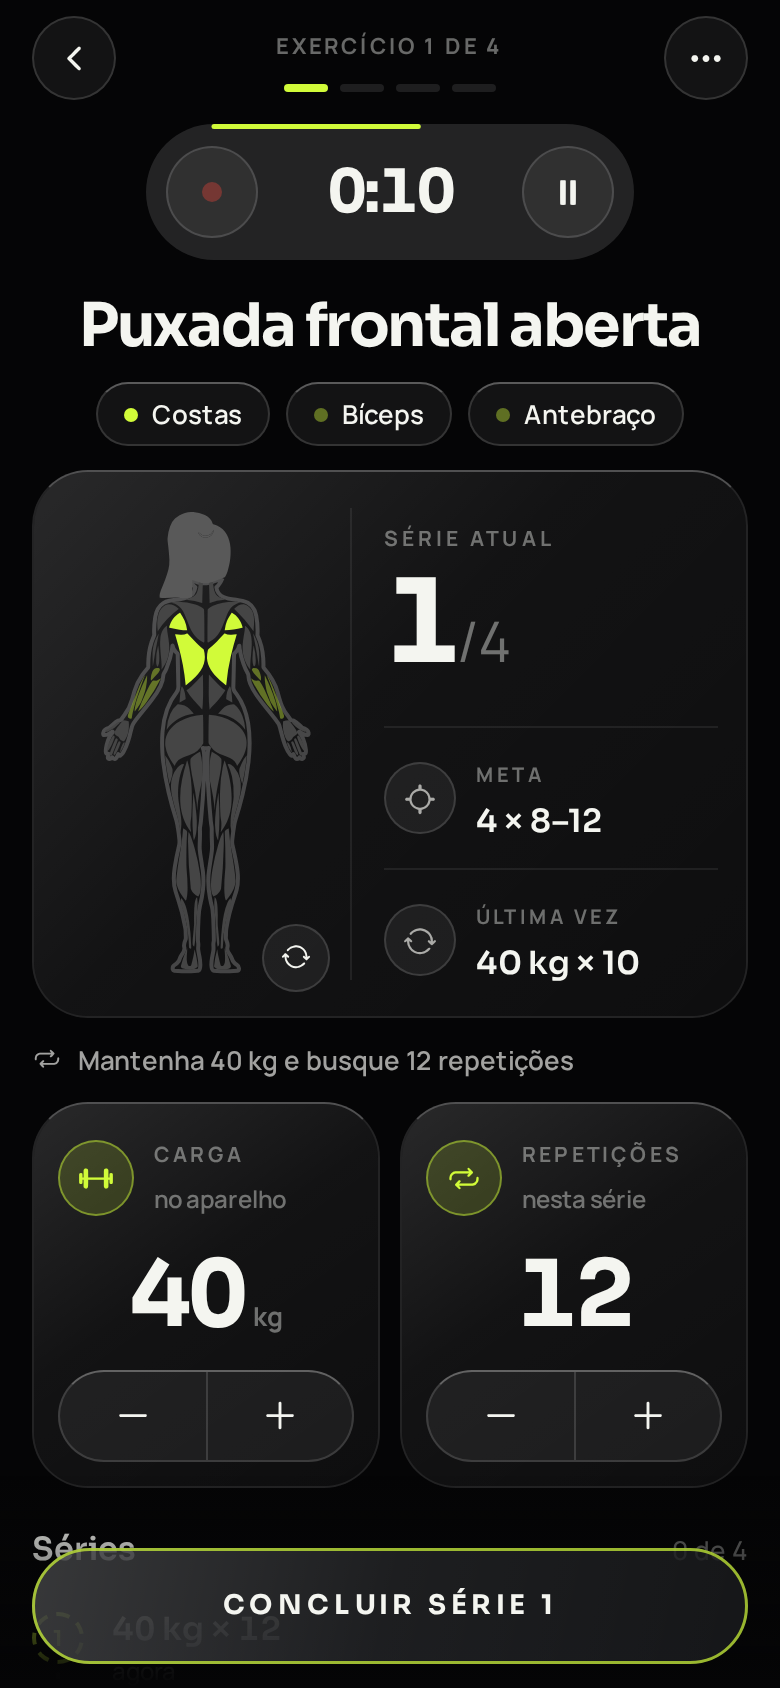
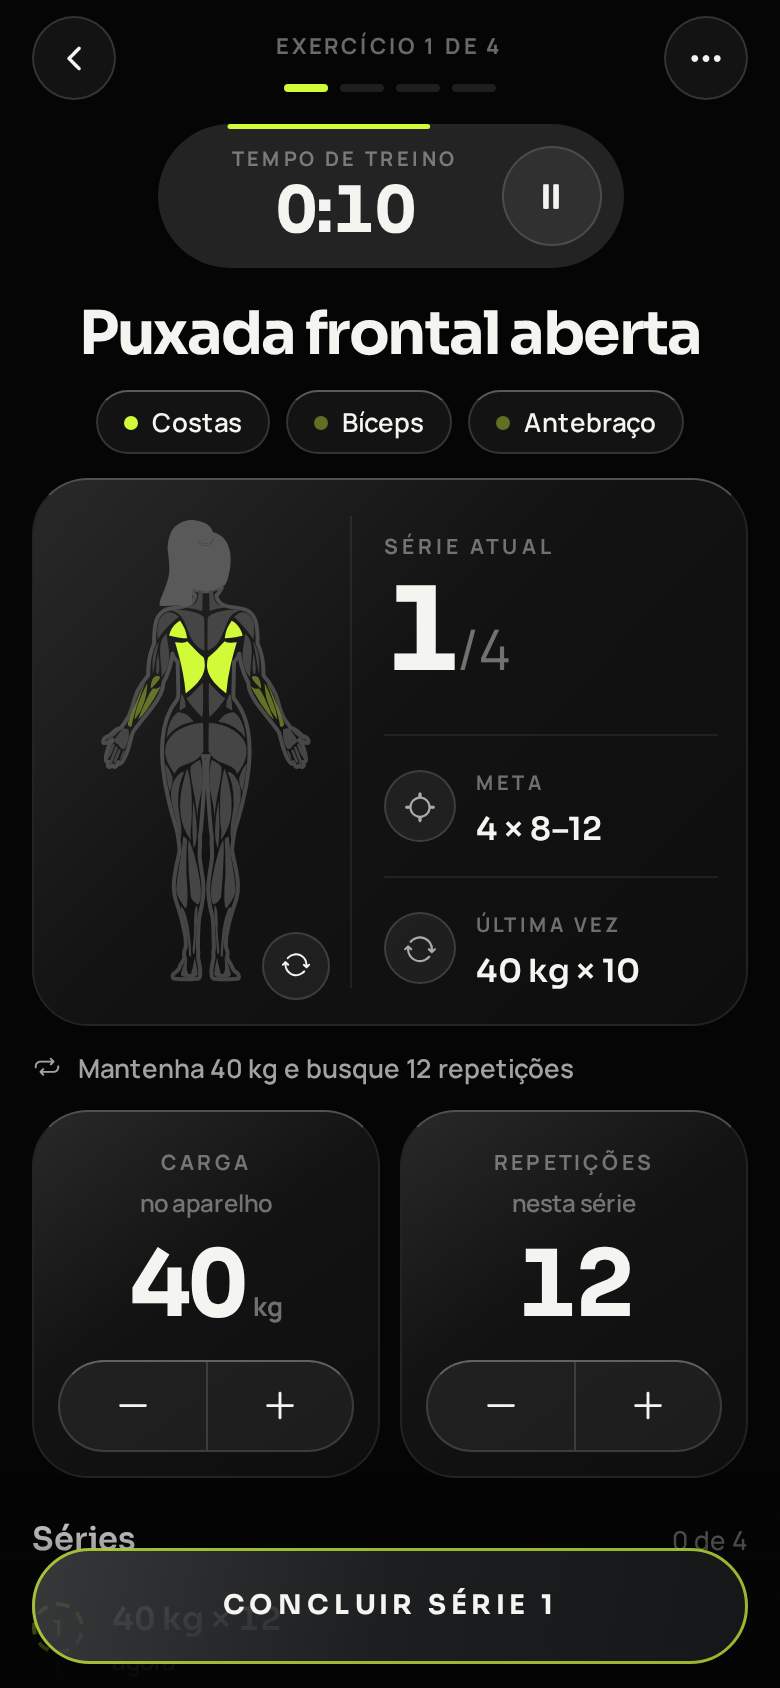
Treino ao vivo: relógio sem o ponto, com o estado em cima do tempo e sem cortar o número; carga e repetições sem ícone
O tempo herdava a altura de linha do texto padrão (22) e o iPhone cortava a metade de cima do número.

Claude-Session: https://claude.ai/code/session_012t93SzLcEenD5Rt5kwwiQ7

diff --git a/src/app/treino-sessao.tsx b/src/app/treino-sessao.tsx
@@ -2,7 +2,7 @@ import Ionicons from '@expo/vector-icons/Ionicons';
 import { Redirect, router, useLocalSearchParams } from 'expo-router';
 import { useEffect, useState } from 'react';
 import { Alert, Platform, Pressable, ScrollView, StyleSheet, View } from 'react-native';
-import Animated, { Easing, Keyframe, useReducedMotion, ZoomIn } from 'react-native-reanimated';
+import Animated, { Easing, Keyframe, ZoomIn } from 'react-native-reanimated';
 import { useSafeAreaInsets } from 'react-native-safe-area-context';
 
 import { LinearGradient } from 'expo-linear-gradient';
@@ -10,7 +10,6 @@ import { LinearGradient } from 'expo-linear-gradient';
 import { BackdropGlow } from '@/components/ui/BackdropGlow';
 import { confirmDestructive, Glass, IconButton, NeonButton, Text, toast } from '@/components/ui';
 import { LinhaAoVivo } from '@/components/workout/LinhaAoVivo';
-import { PISCA } from '@/components/workout/PilulaAoVivo';
 import { MapaMuscular } from '@/components/workout/MapaMuscular';
 import { exercicioPorId, MUSCULO_LABELS } from '@/lib/exercicios';
 import { formatDecimal, formatDuration, formatInt } from '@/lib/format';
@@ -188,7 +187,7 @@ export default function TreinoSessaoScreen() {
         </View>
 
         {/* Tempo do treino numa pílula com a linha correndo em volta (verde no treino, branca no descanso), como o card da aba */}
-        <PilulaTempo sessao={session} descansando={descansando} tempo={formatDuration(elapsed)} pausado={pausado} onPausar={pausado ? retomarTreino : pausarTreino} />
+        <PilulaTempo sessao={session} descansando={descansando} tempo={formatDuration(elapsed)} descanso={descansando ? formatDuration(restante) : undefined} pausado={pausado} onPausar={pausado ? retomarTreino : pausarTreino} />
 
         {/* Nome do exercício no centro e os músculos que ele trabalha */}
         <View style={styles.titulo}>
@@ -277,7 +276,6 @@ export default function TreinoSessaoScreen() {
         {!exerciseDone && (
           <View style={styles.ajustes}>
             <Ajuste
-              icone="barbell-outline"
               rotulo="Carga"
               sub={subDaCarga(info?.equipamentos)}
               valor={formatDecimal(input.kg)}
@@ -286,7 +284,6 @@ export default function TreinoSessaoScreen() {
               onMais={() => setInput((v) => ({ ...v, kg: v.kg + AJUSTE_KG }))}
             />
             <Ajuste
-              icone="repeat-outline"
               rotulo="Repetições"
               sub="nesta série"
               valor={String(input.reps)}
@@ -359,35 +356,37 @@ function InfoLinha({ icone, rotulo, valor }: { icone: IconeNome; rotulo: string;
 }
 
 /**
- * Pílula do tempo no topo: à esquerda o ponto (pisca vermelho gravando,
- * branco no descanso, cinza pausado), o tempo do treino no meio e pausar à
- * direita. A linha em volta é a mesma do card da aba Treino.
+ * Pílula do tempo no topo: o estado (tempo de treino, descanso com o que
+ * falta, pausado) em cima do tempo do treino, e pausar à direita. A linha em
+ * volta é a mesma do card da aba Treino.
  */
 function PilulaTempo({
   sessao,
   descansando,
   tempo,
+  descanso,
   pausado,
   onPausar,
 }: {
   sessao: NonNullable<ReturnType<typeof useAppStore.getState>['sessaoAtiva']>;
   descansando: boolean;
   tempo: string;
+  /** Quanto falta do descanso ("1:29"), se estiver descansando. */
+  descanso?: string;
   pausado: boolean;
   onPausar: () => void;
 }) {
   const [tam, setTam] = useState({ w: 0, h: 0 });
-  const reduce = useReducedMotion();
   return (
     <View style={styles.pilulaWrap}>
       <View style={styles.pilula} onLayout={(e) => setTam({ w: e.nativeEvent.layout.width, h: e.nativeEvent.layout.height })}>
         {tam.w > 0 && <LinhaAoVivo sessao={sessao} descansando={descansando} largura={tam.w} altura={tam.h} raio={tam.h / 2} />}
-        <View style={styles.pilulaPonto}>
-          <Animated.View style={[styles.ponto, descansando && styles.pontoDescanso, pausado && styles.pontoOff, !pausado && !descansando && !reduce && PISCA]} />
+        <View style={styles.pilulaMeio} accessible accessibilityLabel={`Tempo de treino ${tempo}${pausado ? ', pausado' : descanso ? `, descanso ${descanso}` : ''}`}>
+          <Text style={[styles.pilulaRotulo, descanso && !pausado && styles.pilulaRotuloDescanso]} numberOfLines={1}>
+            {pausado ? 'Pausado' : descanso ? `Descanso · ${descanso}` : 'Tempo de treino'}
+          </Text>
+          <Text style={[styles.pilulaTempo, pausado && styles.clockTextOff]}>{tempo}</Text>
         </View>
-        <Text style={[styles.pilulaTempo, pausado && styles.clockTextOff]} accessibilityLabel={`Tempo de treino ${tempo}${pausado ? ', pausado' : ''}`}>
-          {tempo}
-        </Text>
         <Pressable
           accessibilityRole="button"
           accessibilityLabel={pausado ? 'Continuar o treino' : 'Pausar o treino'}
@@ -400,9 +399,8 @@ function PilulaTempo({
   );
 }
 
-/** Carga ou repetições: ícone e rótulo em cima, o número grande e − | + numa pílula. */
+/** Carga ou repetições: o rótulo e o que ele quer dizer em cima, o número grande e − | + numa pílula. */
 function Ajuste({
-  icone,
   rotulo,
   sub,
   valor,
@@ -410,7 +408,6 @@ function Ajuste({
   onMenos,
   onMais,
 }: {
-  icone: IconeNome;
   rotulo: string;
   sub: string;
   valor: string;
@@ -420,17 +417,10 @@ function Ajuste({
 }) {
   return (
     <Glass flush rounded={radius.xl} style={styles.flex} contentStyle={styles.ajuste}>
-      <View style={styles.ajusteCab}>
-        <View style={styles.ajusteIcone}>
-          <Ionicons name={icone} size={18} color={colors.lime} />
-        </View>
-        <View style={styles.flex}>
-          <Text style={styles.ajusteRotulo}>{rotulo}</Text>
-          <Text style={styles.ajusteSub} numberOfLines={1}>
-            {sub}
-          </Text>
-        </View>
-      </View>
+      <Text style={styles.ajusteRotulo}>{rotulo}</Text>
+      <Text style={styles.ajusteSub} numberOfLines={1}>
+        {sub}
+      </Text>
       <View style={styles.ajusteValorLinha}>
         <Text style={styles.ajusteValor}>{valor}</Text>
         {unidade ? <Text style={styles.ajusteUnidade}>{unidade}</Text> : null}
@@ -590,45 +580,38 @@ const styles = StyleSheet.create({
     flexDirection: 'row',
     alignItems: 'center',
     gap: 14,
-    height: 68,
-    paddingHorizontal: 10,
-    borderRadius: 34,
+    height: 72,
+    paddingLeft: 30,
+    paddingRight: 11,
+    borderRadius: 36,
     backgroundColor: colors.glassFillStrong,
   },
-  pilulaPonto: {
-    width: 46,
-    height: 46,
-    borderRadius: 23,
-    alignItems: 'center',
-    justifyContent: 'center',
-    backgroundColor: colors.glassFill,
-    borderWidth: 1,
-    borderColor: colors.line,
-  },
-  ponto: {
-    width: 10,
-    height: 10,
-    borderRadius: 5,
-    backgroundColor: colors.gravando,
-  },
-  pontoDescanso: {
-    backgroundColor: colors.ink,
-  },
-  pontoOff: {
-    backgroundColor: colors.ink3,
-  },
   pilulaTempo: {
-    minWidth: 104,
-    textAlign: 'center',
     fontFamily: fonts.display.bold,
-    fontSize: 30,
+    fontSize: 32,
+    lineHeight: 38,
     letterSpacing: -1.2,
     fontVariant: ['tabular-nums'],
   },
+  pilulaMeio: {
+    minWidth: 128,
+    alignItems: 'center',
+  },
+  pilulaRotulo: {
+    fontFamily: fonts.body.bold,
+    fontSize: 10,
+    lineHeight: 13,
+    letterSpacing: 1.6,
+    textTransform: 'uppercase',
+    color: colors.ink3,
+  },
+  pilulaRotuloDescanso: {
+    color: colors.ink,
+  },
   pilulaBtn: {
-    width: 46,
-    height: 46,
-    borderRadius: 23,
+    width: 50,
+    height: 50,
+    borderRadius: 25,
     alignItems: 'center',
     justifyContent: 'center',
     backgroundColor: colors.glassFill,
@@ -791,30 +774,17 @@ const styles = StyleSheet.create({
     gap: 10,
   },
   ajuste: {
+    alignItems: 'center',
     paddingTop: 14,
     paddingBottom: 12,
     paddingHorizontal: 12,
   },
-  ajusteCab: {
-    flexDirection: 'row',
-    alignItems: 'center',
-    gap: 10,
-  },
-  ajusteIcone: {
-    width: 38,
-    height: 38,
-    borderRadius: 19,
-    alignItems: 'center',
-    justifyContent: 'center',
-    backgroundColor: colors.limeTint,
-    borderWidth: 1,
-    borderColor: colors.limeEdge,
-  },
   ajusteSub: {
     fontFamily: fonts.body.semibold,
     fontSize: 12,
+    lineHeight: 16,
     color: colors.ink3,
-    marginTop: 1,
+    marginTop: 2,
   },
   ajusteRotulo: {
     fontFamily: fonts.body.bold,
@@ -828,7 +798,7 @@ const styles = StyleSheet.create({
     alignItems: 'baseline',
     justifyContent: 'center',
     gap: 4,
-    marginTop: 10,
+    marginTop: 6,
   },
   ajusteValor: {
     fontFamily: fonts.display.bold,

diff --git a/src/components/workout/PilulaAoVivo.tsx b/src/components/workout/PilulaAoVivo.tsx
@@ -12,7 +12,7 @@ import { colors, fonts } from '@/theme/theme';
 import { useAgora } from './HeroDoDia';
 
 /** O ponto pisca devagar, como quem está gravando. */
-export const PISCA = {
+const PISCA = {
   animationName: { '0%': { opacity: 1 }, '50%': { opacity: 0.25 }, '100%': { opacity: 1 } },
   animationDuration: 1400,
   animationIterationCount: 'infinite' as const,
